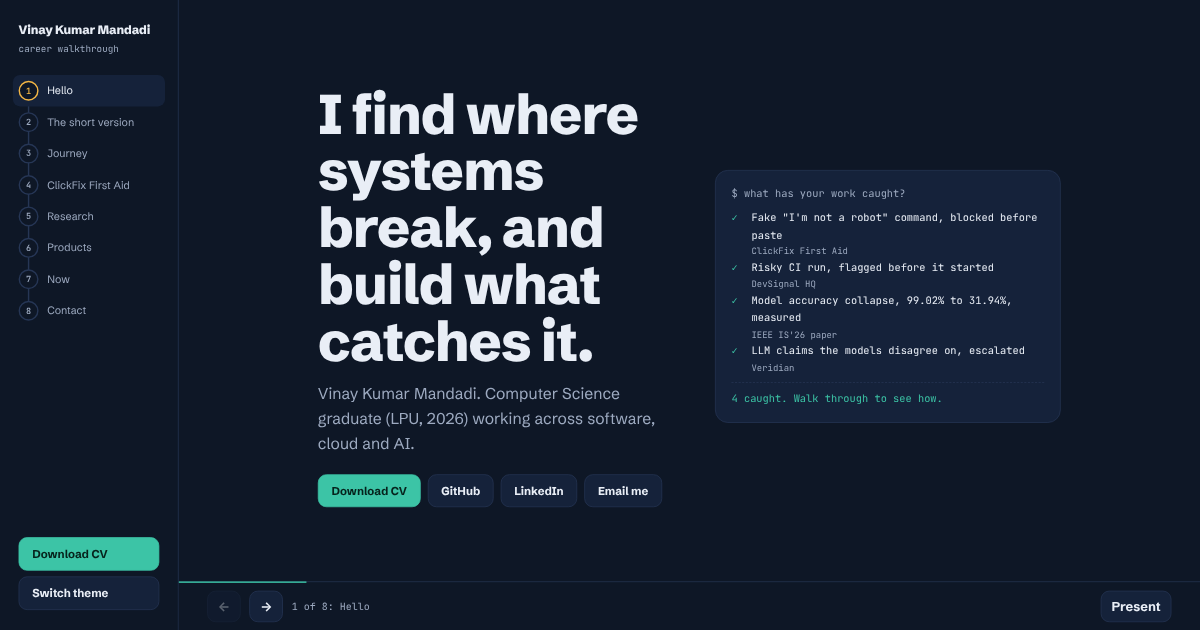
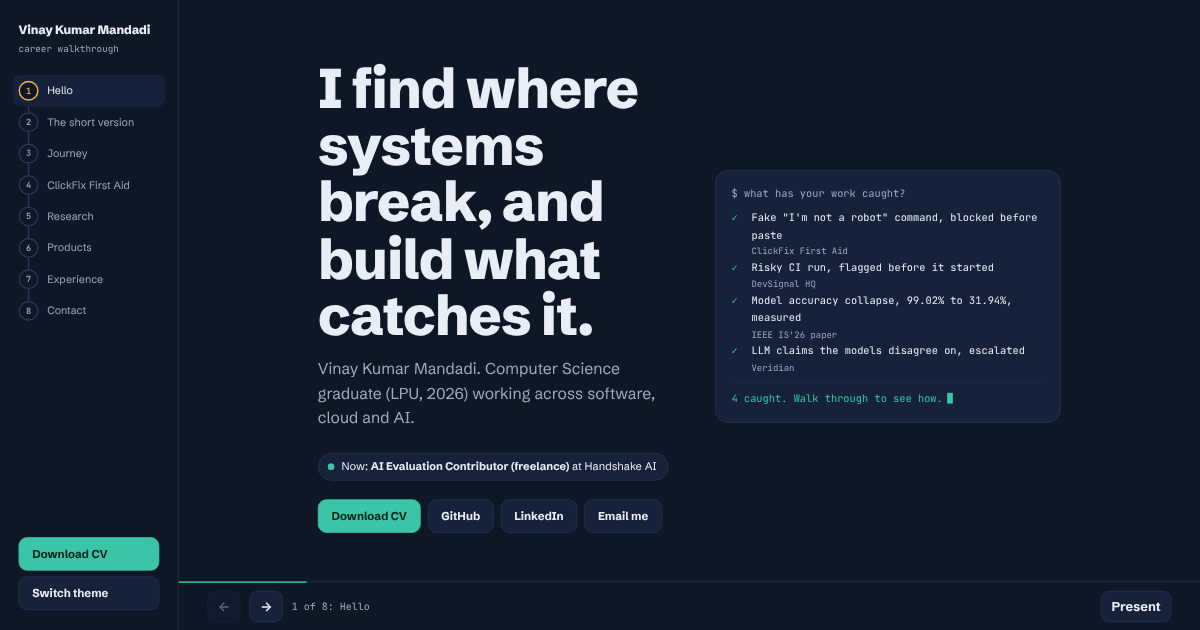
Experience slide for Handshake AI, and more life in the slides (#3)
- Slide 7 is now Experience: AI Evaluation Contributor (freelance), Handshake AI, July 2026 to present, remote.
- The front slide shows the current role and links straight to it; the summary and the timeline name the role too.
- Slides move in the direction you travel, and the left-hand list fills green up to the current slide.
- Research chart: the second bar climbs to 99.02% and then collapses to 31.94%, with the numbers moving with the bars.
- Summary rows, timeline steps and product labels appear in sequence; the ClickFix demo checkbox invites a click.
- Links to #1 to #8 work from anywhere on the page.
- Reduced motion shows everything at once; the front slide fits 1366x768 screens.
- New link-preview image.

Changed region(s): [[0.2467, 0.0905, 0.555, 0.8444], [0.4317, 0.8143, 0.555, 0.8444], [0.0308, 0.4222, 0.0925, 0.4524]]

diff --git a/index.html b/index.html
@@ -83,9 +83,10 @@ button { font: inherit; color: inherit; }
 .rail .run { font: 13px/1.4 var(--mono); color: var(--muted); margin: 0 8px 22px; }
 .rail ol { list-style: none; margin: 0; padding: 0; position: relative; }
 .rail ol::before { content: ""; position: absolute; left: 21px; top: 14px; bottom: 14px; width: 2px; background: var(--line); }
-.rail li button { width: 100%; display: flex; align-items: center; gap: 12px; padding: 8px; border: 0; background: none; text-align: left; cursor: pointer; border-radius: 10px; color: var(--muted); font-size: 15px; position: relative; }
+.rail ol::after { content: ""; position: absolute; left: 21px; top: 22px; width: 2px; height: var(--fill, 0px); background: var(--ok); transition: height .55s cubic-bezier(.3, .7, .2, 1); }
+.rail li button { width: 100%; display: flex; align-items: center; gap: 12px; padding: 8px; border: 0; background: none; text-align: left; cursor: pointer; border-radius: 10px; color: var(--muted); font-size: 15px; position: relative; z-index: 1; transition: color .2s, background-color .2s; }
 .rail li button:hover { color: var(--text); }
-.rail .dot { flex: none; width: 28px; height: 28px; border-radius: 50%; display: grid; place-items: center; background: var(--bg); border: 2px solid var(--line); font: 600 12px var(--mono); color: var(--muted); }
+.rail .dot { flex: none; width: 28px; height: 28px; border-radius: 50%; display: grid; place-items: center; background: var(--bg); border: 2px solid var(--line); font: 600 12px var(--mono); color: var(--muted); transition: border-color .3s, color .3s; }
 .rail li.done .dot { border-color: var(--ok); color: var(--ok); }
 .rail li.done .dot span { display: none; }
 .rail li.done .dot::after { content: ""; width: 9px; height: 5px; border-left: 2px solid var(--ok); border-bottom: 2px solid var(--ok); transform: translateY(-1px) rotate(-45deg); }
@@ -94,7 +95,7 @@ button { font: inherit; color: inherit; }
 .rail .foot { margin-top: auto; padding: 18px 8px 0; display: grid; gap: 8px; }
 
 .stage { position: relative; overflow: hidden; }
-.slide { position: absolute; inset: 0 0 68px 0; overflow-y: auto; padding: 56px clamp(20px, 5vw, 72px) 40px; opacity: 0; visibility: hidden; transition: opacity .35s ease, visibility .35s; }
+.slide { position: absolute; inset: 0 0 68px 0; overflow-y: auto; padding: 56px clamp(20px, 5vw, 72px) 40px; opacity: 0; visibility: hidden; transition: opacity .35s ease, visibility .35s, transform .5s cubic-bezier(.2, .7, .2, 1); }
 .slide.on { opacity: 1; visibility: visible; }
 .wrap { max-width: 1040px; margin: 0 auto; min-height: 100%; display: flex; flex-direction: column; justify-content: center; }
 
@@ -108,7 +109,10 @@ p { margin: 0 0 14px; max-width: 62ch; }
 
 .btns { display: flex; flex-wrap: wrap; gap: 10px; margin-top: 26px; }
 .btn { display: inline-flex; align-items: center; min-height: 44px; padding: 10px 18px; border-radius: 12px; border: 1px solid var(--line); background: var(--panel); text-decoration: none; font-weight: 700; font-size: 16px; cursor: pointer; }
+.btn { transition: border-color .2s, transform .15s, filter .2s; }
 .btn:hover { border-color: var(--muted); }
+.btn:active { transform: translateY(1px); }
+.btn.go:hover { filter: brightness(1.08); }
 .btn.go { background: var(--ok); border-color: var(--ok); color: #06231c; }
 :root[data-theme="light"] .btn.go { color: #fff; }
 @media (prefers-color-scheme: light) { :root:not([data-theme="dark"]) .btn.go { color: #fff; } }
@@ -124,12 +128,23 @@ p { margin: 0 0 14px; max-width: 62ch; }
 .played .log .ln, .played .log .sum { animation: type .9s steps(36, end) forwards; animation-delay: calc(var(--i) * .75s + .2s); }
 @keyframes type { to { clip-path: inset(0 0 0 0); } }
 
+.nowrole { display: inline-flex; align-items: center; gap: 10px; margin-top: 18px; padding: 8px 16px 8px 13px; border-radius: 14px; border: 1px solid var(--line); background: var(--panel); font-size: 15.5px; line-height: 1.35; text-decoration: none; transition: border-color .2s; }
+.nowrole:hover { border-color: var(--ok); }
+.nowrole b { font-weight: 700; }
+.live { flex: none; width: 9px; height: 9px; border-radius: 50%; background: var(--ok); position: relative; }
+.live::after { content: ""; position: absolute; inset: 0; border-radius: 50%; background: var(--ok); animation: ping 2.2s ease-out infinite; }
+@keyframes ping { 0% { transform: scale(1); opacity: .55; } 75%, 100% { transform: scale(2.8); opacity: 0; } }
+.log .sum::after { content: ""; display: inline-block; width: 8px; height: 1.05em; margin-left: 6px; vertical-align: -2px; background: var(--ok); animation: blink 1.1s steps(1) infinite; }
+@keyframes blink { 50% { opacity: 0; } }
+
 /* Slide 2: manifest. */
 .manifest { display: grid; grid-template-columns: max-content 1fr; border-top: 1px solid var(--line); }
 .manifest dt, .manifest dd { margin: 0; padding: 16px 0; border-bottom: 1px solid var(--line); }
 .manifest dt { font: 600 14px/1.6 var(--mono); color: var(--warn); padding-right: 36px; }
 .manifest dd { font-size: 19px; }
 .manifest dd span { color: var(--muted); }
+.played .manifest dt, .played .manifest dd { animation: wipe .5s cubic-bezier(.3, .7, .2, 1) both; animation-delay: calc(var(--i) * 55ms + 80ms); }
+@keyframes wipe { from { clip-path: inset(0 100% 0 0); } to { clip-path: inset(0 0 0 0); } }
 
 /* Slide 3: journey. */
 .journey { list-style: none; margin: 0; padding: 0; position: relative; }
@@ -140,6 +155,11 @@ p { margin: 0 0 14px; max-width: 62ch; }
 .journey .pin { width: 14px; height: 14px; border-radius: 50%; background: var(--bg); border: 2px solid var(--ok); margin: 5px 0 0 6px; position: relative; z-index: 1; }
 .journey li:last-child .pin { border-color: var(--warn); background: var(--warn); }
 .journey .what { font-size: 18px; max-width: 60ch; }
+.journey li { --d: calc(var(--i) * .22s + .1s); }
+.played .journey .pin { animation: pin .45s cubic-bezier(.3, 1.6, .5, 1) both; animation-delay: var(--d); }
+.played .journey .when, .played .journey .what { animation: lit .5s ease both; animation-delay: var(--d); }
+@keyframes lit { from { opacity: .2; } }
+@keyframes pin { from { transform: scale(0); } }
 
 /* Slide 4: ClickFix. */
 .split h2 { font-size: clamp(28px, 3.4vw, 44px); }
@@ -155,6 +175,8 @@ p { margin: 0 0 14px; max-width: 62ch; }
 .fake p { font-size: 14px; color: #5a6475; margin: 0 0 16px; }
 .check { display: flex; align-items: center; gap: 12px; border: 1px solid #cfd6e0; border-radius: 6px; padding: 14px; background: #f8f9fb; cursor: pointer; width: 100%; text-align: left; color: #1d2430; font-size: 15px; }
 .check .box { width: 24px; height: 24px; border: 2px solid #8a94a6; border-radius: 3px; background: #fff; flex: none; }
+.played .sim:not(.blocked) .check .box { animation: nudge 2.4s ease-in-out 1.2s infinite; }
+@keyframes nudge { 0%, 70%, 100% { box-shadow: 0 0 0 0 rgba(60, 196, 166, 0); } 35% { box-shadow: 0 0 0 6px rgba(60, 196, 166, .35); } }
 .warnbox { background: #fff; border-radius: 10px; border: 2px solid var(--fail); padding: 16px 18px; color: #1d2430; display: none; }
 .sim.blocked .fake > :not(.warnbox) { display: none; }
 .sim.blocked .warnbox { display: block; animation: pop .25s ease-out; }
@@ -170,13 +192,14 @@ p { margin: 0 0 14px; max-width: 62ch; }
 .bar .label { font-size: 16px; }
 .bar .label small { display: block; color: var(--muted); font-size: 13.5px; }
 .track { height: 42px; background: var(--panel); border: 1px solid var(--line); border-radius: 10px; overflow: hidden; position: relative; }
-.fill { height: 100%; width: 0; border-radius: 9px 0 0 9px; transition: width 1.1s cubic-bezier(.2,.7,.2,1); display: flex; align-items: center; justify-content: flex-end; }
+.fill { height: 100%; width: 0; border-radius: 9px 0 0 9px; transition: background-color .6s ease; display: flex; align-items: center; justify-content: flex-end; }
 .fill b { font: 600 15px var(--mono); padding: 0 10px; color: #06231c; white-space: nowrap; }
-.played .fill { width: var(--v); }
 .fill.ok { background: var(--ok); }
-.fill.bad { background: var(--fail); transition-delay: .45s; }
-.fill.mid { background: var(--warn); transition-delay: .9s; }
+.fill.bad { background: var(--fail); }
+.fill.bad.rising { background: var(--ok); }
+.fill.mid { background: var(--warn); }
 .fill.bad b { color: #2a0703; }
+.fill.bad.rising b { color: #06231c; }
 .fill.mid b { color: #2a1d00; }
 .papers { display: grid; grid-template-columns: repeat(3, 1fr); gap: 16px; }
 .paper { border-top: 2px solid var(--line); padding-top: 12px; }
@@ -187,7 +210,10 @@ p { margin: 0 0 14px; max-width: 62ch; }
 /* Slide 6: products. */
 .products { display: grid; grid-template-columns: repeat(3, 1fr); gap: 18px; }
 .product { background: var(--panel); border: 1px solid var(--line); border-radius: 18px; padding: 22px; display: flex; flex-direction: column; }
+.product { transition: border-color .25s, transform .25s; }
+.product:hover { border-color: var(--muted); transform: translateY(-2px); }
 .product .catches { font: 600 13.5px/1.5 var(--mono); color: var(--warn); margin-bottom: 10px; }
+.played .product .catches { animation: wipe .8s steps(32, end) both; animation-delay: calc(var(--i) * .3s + .25s); }
 .product h3 { margin-bottom: 10px; }
 .product p { font-size: 16px; color: var(--muted); }
 .product .stack { font-size: 14px; color: var(--muted); margin-top: auto; padding-top: 10px; border-top: 1px solid var(--line); }
@@ -195,8 +221,19 @@ p { margin: 0 0 14px; max-width: 62ch; }
 
 /* Slide 7: now. */
 .today { display: grid; grid-template-columns: 1fr 1fr; gap: 44px; align-items: start; }
+.job { background: var(--panel); border: 1px solid var(--line); border-radius: 18px; padding: 22px 24px 20px; }
+.job-top { display: flex; align-items: center; gap: 10px; font: 600 13.5px/1.5 var(--mono); color: var(--ok); margin-bottom: 10px; }
+.job h3 { font-size: 23px; }
+.job .org { font-size: 18px; color: var(--muted); margin-top: 2px; }
+.job .facts { margin-top: 14px; }
+.job .facts li:last-child { border-bottom: 0; }
+.review { display: flex; gap: 10px; align-items: baseline; margin-top: 12px; padding: 10px 14px; border-radius: 12px; background: var(--panel-2); font-size: 15.5px; }
+.review b { color: var(--ok); }
+.played .review { animation: wipe .6s cubic-bezier(.3, .7, .2, 1) .5s both; }
+.habit { margin-top: 18px; }
+.tools-title { font-size: 21px; margin-bottom: 4px; }
 .tools { display: grid; gap: 16px; }
-.tools h3 { font-size: 15px; color: var(--muted); font-weight: 600; margin-bottom: 6px; }
+.tools div h3 { font-size: 15px; color: var(--muted); font-weight: 600; margin-bottom: 6px; }
 .chips { display: flex; flex-wrap: wrap; gap: 7px; }
 .chips span { font-size: 15px; padding: 5px 11px; border-radius: 999px; background: var(--panel); border: 1px solid var(--line); }
 
@@ -231,6 +268,9 @@ p { margin: 0 0 14px; max-width: 62ch; }
 @media (max-height: 780px) and (min-width: 901px) {
   .slide { padding-top: 30px; padding-bottom: 18px; }
   h2 { margin-bottom: 16px; font-size: clamp(28px, 3.6vw, 44px); }
+  h1 { font-size: clamp(38px, 4.6vw, 60px); }
+  .lede { margin-top: 12px; }
+  .nowrole { margin-top: 12px; }
   .split h2 { font-size: clamp(26px, 3vw, 38px); }
   .manifest dt { padding: 11px 36px 11px 0; }
   .manifest dd { padding: 11px 0; }
@@ -243,7 +283,10 @@ p { margin: 0 0 14px; max-width: 62ch; }
   .btns { margin-top: 16px; }
 }
 @media (prefers-reduced-motion: reduce) {
-  .slide, .fill, .journey::before { transition: none !important; }
+  .slide, .fill, .journey::before, .rail ol::after { transition: none !important; }
+  .slide { transform: none !important; }
+  .live::after, .log .sum::after, .played .sim .check .box { animation: none !important; }
+  .played .manifest dt, .played .manifest dd, .played .journey .pin, .played .journey .when, .played .journey .what, .played .product .catches, .played .review { animation: none !important; }
   .log .ln, .log .sum { clip-path: none !important; animation: none !important; }
   .sim.blocked .warnbox { animation: none; }
 }
@@ -252,9 +295,11 @@ p { margin: 0 0 14px; max-width: 62ch; }
   .app { display: block; }
   .rail, .controls, .mobile-top { display: none; }
   .stage { overflow: visible; }
-  .slide { position: static; opacity: 1; visibility: visible; page-break-after: always; overflow: visible; }
+  .slide { position: static; opacity: 1; visibility: visible; page-break-after: always; overflow: visible; transform: none !important; }
+  .live::after, .log .sum::after { display: none; }
   .log .ln, .log .sum { clip-path: none; }
-  .fill { width: var(--v); }
+  .fill { width: var(--v) !important; }
+  .fill.bad.rising { background: var(--fail); }
   .journey::before { height: calc(100% - 16px); }
 }
 </style>
@@ -280,6 +325,7 @@ p { margin: 0 0 14px; max-width: 62ch; }
           <div>
             <h1>I find where systems break, and build what catches it.</h1>
             <p class="lede">Vinay Kumar Mandadi. Computer Science graduate (LPU, 2026) working across software, cloud and AI.</p>
+            <a class="nowrole" href="#7" data-go="Experience"><span class="live" aria-hidden="true"></span><span>Now: <b>AI Evaluation Contributor (freelance)</b> at Handshake&nbsp;AI</span></a>
             <div class="btns">
               <a class="btn go" href="cv/Vinay_Kumar_Mandadi_CV.pdf" download>Download CV</a>
               <a class="btn" href="https://github.com/vinaykumarchowdary18">GitHub</a>
@@ -303,6 +349,7 @@ p { margin: 0 0 14px; max-width: 62ch; }
       <div class="wrap">
         <h2>The short version</h2>
         <dl class="manifest">
+          <dt>experience</dt><dd>AI Evaluation Contributor (freelance), Handshake AI <span>(remote, July 2026 to present)</span></dd>
           <dt>degree</dt><dd>B.Tech, Computer Science and Engineering, LPU <span>(2022 to 2026, Google Cloud Computing specialisation)</span></dd>
           <dt>certified</dt><dd>4 Oracle certifications <span>including OCI Multicloud Architect Professional and DevOps Professional</span></dd>
           <dt>research</dt><dd>2 sole-author papers, one accepted at IEEE IS'26 <span>and a co-authored paper accepted at 8BIC 2026</span></dd>
@@ -321,7 +368,7 @@ p { margin: 0 0 14px; max-width: 62ch; }
           <li><span class="when">2024 to 2025</span><span class="pin"></span><span class="what">Built a secure Aadhaar-based voting platform on Google Cloud with my team, placing in the top 105 of 3,700+ teams in the GDG Solution Challenge 2025.</span></li>
           <li><span class="when">Oct 2025</span><span class="pin"></span><span class="what">Earned three Oracle Cloud certifications: Multicloud Architect Professional, DevOps Professional and AI Foundations Associate.</span></li>
           <li><span class="when">Jan to May 2026</span><span class="pin"></span><span class="what">Capstone on deepfake detection with a team of five. A related team paper was accepted at 8BIC 2026.</span></li>
-          <li><span class="when">Jul 2026</span><span class="pin"></span><span class="what">Graduated, and started AI evaluation work with Handshake AI.</span></li>
+          <li><span class="when">Jul 2026</span><span class="pin"></span><span class="what">Graduated, and started as an AI Evaluation Contributor (freelance) at Handshake AI.</span></li>
           <li><span class="when">2026</span><span class="pin"></span><span class="what">Sole-author research on software risk prediction and on intrusion detection; the intrusion detection paper was accepted at IEEE IS'26.</span></li>
           <li><span class="when">Oct 2026</span><span class="pin"></span><span class="what">Built and open-sourced ClickFix First Aid, and published it on Microsoft Edge Add-ons.</span></li>
         </ol>
@@ -369,9 +416,9 @@ p { margin: 0 0 14px; max-width: 62ch; }
       <div class="wrap">
         <h2>Models fail quietly. I measure how.</h2>
         <div class="chart" role="img" aria-label="Accuracy of the intrusion detection model: 99.02 percent on the data it was trained on, 31.94 percent on a different dataset, 68.0 percent after calibration.">
-          <div class="bar"><div class="label">Data it was trained on<small>CIC-IDS2017</small></div><div class="track"><div class="fill ok" style="--v:99.02%"><b>99.02%</b></div></div></div>
-          <div class="bar"><div class="label">A different network's data<small>UNSW-NB15, 0% of attacks caught</small></div><div class="track"><div class="fill bad" style="--v:31.94%"><b>31.94%</b></div></div></div>
-          <div class="bar"><div class="label">After calibration<small>Platt scaling</small></div><div class="track"><div class="fill mid" style="--v:68%"><b>68.0%</b></div></div></div>
+          <div class="bar"><div class="label">Data it was trained on<small>CIC-IDS2017</small></div><div class="track"><div class="fill ok" style="--v:99.02%" data-path="0:0 1100:99.02" data-dec="2"><b>99.02%</b></div></div></div>
+          <div class="bar"><div class="label">A different network's data<small>UNSW-NB15, 0% of attacks caught</small></div><div class="track"><div class="fill bad" style="--v:31.94%" data-path="500:0 1400:99.02 1900:99.02 2900:31.94" data-turn="1900" data-dec="2"><b>31.94%</b></div></div></div>
+          <div class="bar"><div class="label">After calibration<small>Platt scaling</small></div><div class="track"><div class="fill mid" style="--v:68%" data-path="3000:0 3900:68" data-dec="1"><b>68.0%</b></div></div></div>
         </div>
         <div class="papers">
           <div class="paper">
@@ -420,15 +467,26 @@ p { margin: 0 0 14px; max-width: 62ch; }
       </div>
     </section>
 
-    <section class="slide" data-title="Now" aria-label="Now">
+    <section class="slide" data-title="Experience" aria-label="Experience">
       <div class="wrap">
         <div class="today">
           <div>
-            <h2>What I do now</h2>
-            <p class="muted">At Handshake AI, I write hard research questions that today's AI models get wrong, and verify every answer against independent primary sources. Those questions are used to evaluate and train AI systems. Every task I've submitted has been approved on human review.</p>
-            <p class="muted">It's the same habit as everything else here: find the failure first, then make it measurable.</p>
+            <h2>Experience</h2>
+            <article class="job">
+              <div class="job-top"><span class="live" aria-hidden="true"></span>July 2026 to present, remote</div>
+              <h3>AI Evaluation Contributor (freelance)</h3>
+              <div class="org">Handshake AI</div>
+              <ul class="facts">
+                <li>Write hard, multi-step research questions that today's AI models get wrong</li>
+                <li>Verify every answer trail against independent primary sources</li>
+                <li>The questions are used to evaluate and train AI systems</li>
+              </ul>
+              <div class="review"><b aria-hidden="true">✓</b>Every task I've submitted has been approved on human review.</div>
+            </article>
+            <p class="muted habit">It's the same habit as everything else here: find the failure first, then make it measurable.</p>
           </div>
           <div class="tools">
+            <h3 class="tools-title">Tools I work with</h3>
             <div><h3>Languages</h3><div class="chips"><span>Python</span><span>TypeScript</span><span>JavaScript</span><span>Java</span><span>Bash</span><span>SQL</span></div></div>
             <div><h3>Back end and web</h3><div class="chips"><span>FastAPI</span><span>Flask</span><span>Django</span><span>Node.js</span><span>React</span><span>OAuth and JWT</span></div></div>
             <div><h3>Cloud and DevOps</h3><div class="chips"><span>Oracle Cloud</span><span>Google Cloud</span><span>AWS</span><span>Docker</span><span>Kubernetes</span><span>Terraform</span><span>GitHub Actions</span></div></div>
@@ -469,7 +527,18 @@ p { margin: 0 0 14px; max-width: 62ch; }
   var next = document.getElementById('next');
   var where = document.getElementById('where');
   var progress = document.getElementById('progress');
+  var reduce = matchMedia('(prefers-reduced-motion: reduce)').matches;
   var i = -1;
+
+  // Position in each list, used to stagger the entrance animations.
+  Array.prototype.forEach.call(document.querySelectorAll('.manifest, .journey, .products'), function (list) {
+    Array.prototype.forEach.call(list.children, function (el, k) { el.style.setProperty('--i', k); });
+  });
+
+  function slideIndex(title) {
+    for (var k = 0; k < slides.length; k++) if (slides[k].dataset.title === title) return k;
+    return 0;
+  }
 
   slides.forEach(function (s, n) {
     var li = document.createElement('li');
@@ -484,7 +553,19 @@ p { margin: 0 0 14px; max-width: 62ch; }
   function go(n) {
     n = Math.max(0, Math.min(slides.length - 1, n));
     if (n === i) return;
+    var dir = i < 0 ? 0 : (n > i ? 1 : -1);
+    var old = slides[i];
     i = n;
+    // The new slide comes in from the side you are moving towards.
+    if (dir && !reduce) {
+      var inc = slides[i];
+      inc.style.transition = 'none';
+      inc.style.transform = 'translateX(' + (dir * 56) + 'px)';
+      void inc.offsetWidth;
+      inc.style.transition = '';
+      inc.style.transform = '';
+      old.style.transform = 'translateX(' + (-dir * 56) + 'px)';
+    }
     slides.forEach(function (s, k) {
       var on = k === i;
       s.classList.toggle('on', on);
@@ -495,6 +576,7 @@ p { margin: 0 0 14px; max-width: 62ch; }
         s.classList.remove('played');
         void s.offsetWidth; // restart this slide's animation
         s.classList.add('played');
+        runBars(s);
       }
     });
     Array.prototype.forEach.call(rail.children, function (li, k) {
@@ -506,10 +588,56 @@ p { margin: 0 0 14px; max-width: 62ch; }
     next.disabled = i === slides.length - 1;
     where.textContent = (i + 1) + ' of ' + slides.length + ': ' + slides[i].dataset.title;
     progress.style.width = ((i + 1) / slides.length * 100) + '%';
+    var first = rail.children[0].firstChild, cur = rail.children[i].firstChild;
+    rail.style.setProperty('--fill', (cur.offsetTop - first.offsetTop) + 'px');
     // The first slide keeps the plain address, so the link people copy is the clean one.
     var want = i === 0 ? '' : '#' + (i + 1);
     if (location.hash !== want) history.replaceState(null, '', want || location.pathname + location.search);
   }
+
+  // Research chart: each bar follows its path, and its number moves with it.
+  var barRun = 0;
+  function runBars(slide) {
+    var fills = slide.querySelectorAll('.fill[data-path]');
+    if (!fills.length) return;
+    var run = ++barRun;
+    var items = Array.prototype.map.call(fills, function (f) {
+      var pts = f.dataset.path.split(' ').map(function (p) { var a = p.split(':'); return [+a[0], +a[1]]; });
+      return { el: f, b: f.querySelector('b'), pts: pts, dec: +f.dataset.dec, turn: f.dataset.turn ? +f.dataset.turn : null };
+    });
+    function valueAt(pts, t) {
+      if (t <= pts[0][0]) return pts[0][1];
+      for (var k = 1; k < pts.length; k++) {
+        if (t <= pts[k][0]) {
+          var a = pts[k - 1], c = pts[k], x = (t - a[0]) / (c[0] - a[0]);
+          var e = 1 - Math.pow(1 - x, 3);
+          return a[1] + (c[1] - a[1]) * e;
+        }
+      }
+      return pts[pts.length - 1][1];
+    }
+    function paint(it, t) {
+      var v = valueAt(it.pts, t);
+      it.el.style.width = v + '%';
+      it.b.textContent = v.toFixed(it.dec) + '%';
+      if (it.turn !== null) it.el.classList.toggle('rising', t < it.turn);
+    }
+    if (reduce) { items.forEach(function (it) { paint(it, Infinity); }); return; }
+    var t0 = null;
+    function frame(ts) {
+      if (run !== barRun) return;
+      if (t0 === null) t0 = ts;
+      var t = ts - t0, more = false;
+      items.forEach(function (it) { paint(it, t); if (t < it.pts[it.pts.length - 1][0]) more = true; });
+      if (more) requestAnimationFrame(frame);
+    }
+    items.forEach(function (it) { paint(it, 0); });
+    requestAnimationFrame(frame);
+  }
+
+  Array.prototype.forEach.call(document.querySelectorAll('[data-go]'), function (a) {
+    a.addEventListener('click', function (e) { e.preventDefault(); go(slideIndex(a.dataset.go)); });
+  });
 
   prev.addEventListener('click', function () { go(i - 1); });
   next.addEventListener('click', function () { go(i + 1); });
@@ -562,8 +690,13 @@ p { margin: 0 0 14px; max-width: 62ch; }
     document.getElementById('simCheck').focus();
   });
 
-  var start = parseInt((location.hash || '').slice(1), 10);
-  go(isNaN(start) ? 0 : start - 1);
+  function fromHash() {
+    var n = parseInt((location.hash || '').slice(1), 10);
+    return isNaN(n) ? 0 : n - 1;
+  }
+  // Links to #1 to #8 work from anywhere on the page.
+  window.addEventListener('hashchange', function () { go(fromHash()); });
+  go(fromHash());
 })();
 </script>
 </body>
